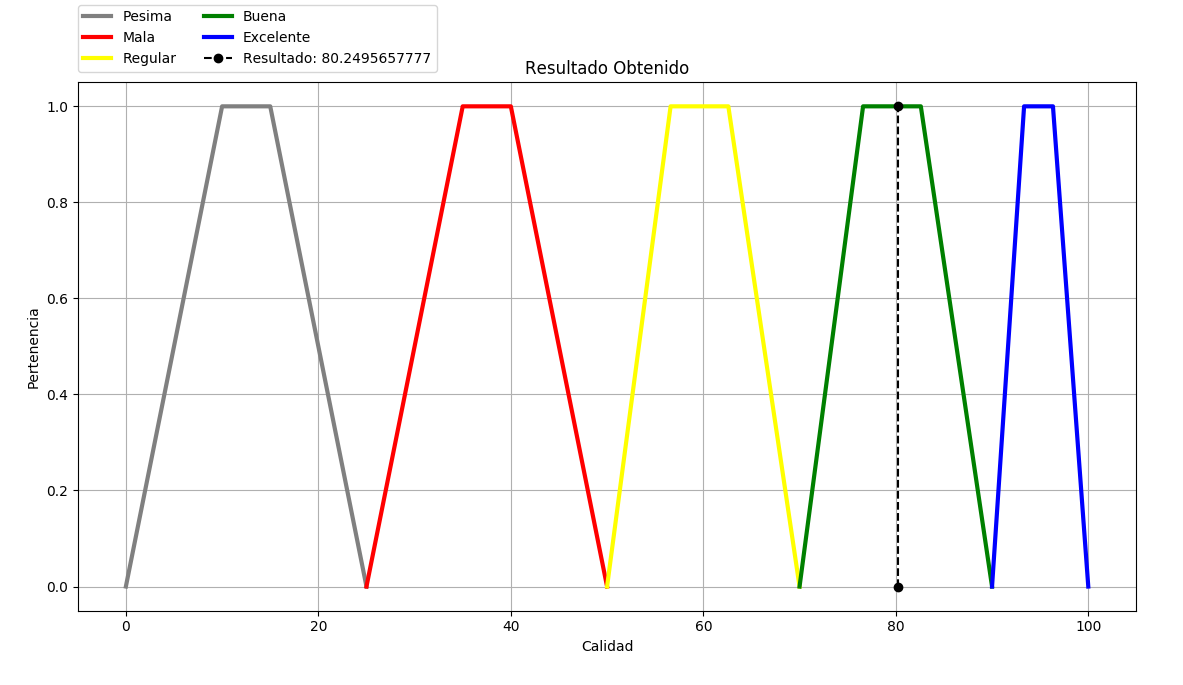
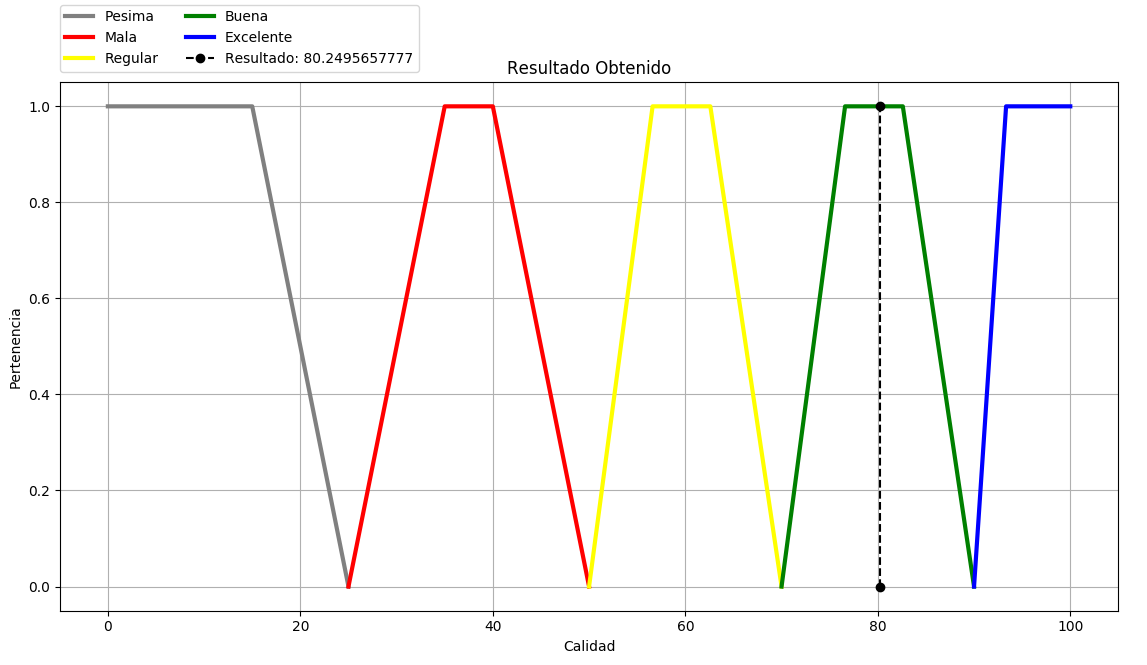
software para la trata de aguas

diff --git a/Test_ver2/Graficas.py b/Test_ver2/Graficas.py
@@ -7,16 +7,16 @@ class Graficas:
 		pass
 		
 	def graficar(self, p):
-		x1 = [0, 10, 15, 25]
-		y1 = [0, 1, 1, 0]
+		x1 = [0, 15, 25]
+		y1 = [1, 1, 0]
 		x2 = [25, 35, 40, 50]
 		y2 = [0, 1, 1, 0]
 		x3 = [50, 56.6, 62.6, 70]
 		y3 = [0, 1, 1, 0]
 		x4 = [70, 76.6, 82.6, 90]
 		y4 = [0, 1, 1, 0]
-		x5 = [90, 93.33, 96.33, 100]
-		y5 = [0, 1, 1, 0]
+		x5 = [90, 93.33, 100]
+		y5 = [0, 1, 1]
 		pp.title('Resultado Obtenido')
 		pp.plot(x1, y1,'gray', linewidth=3.0, label='Pesima')
 		pp.plot(x2, y2,'red', linewidth=3.0, label='Mala')

diff --git a/README.md b/README.md
@@ -32,5 +32,5 @@ Finalmente nos muestra una gráfica en la cual podemos observar los rangos de ca
 determinar la calidad del agua, y también podemos observar a cual de estos rangos corresponde el valor obtenido de los cálculos de nuestro sistema experto.
 
 <p align="center">
-  <img width="1183" height="685" src="Test_ver2/images/graph.png">
+  <img width="1147" height="665" src="Test_ver2/images/graph.png">
 </p>
